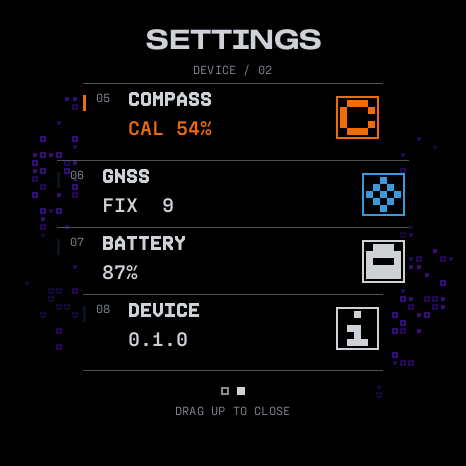
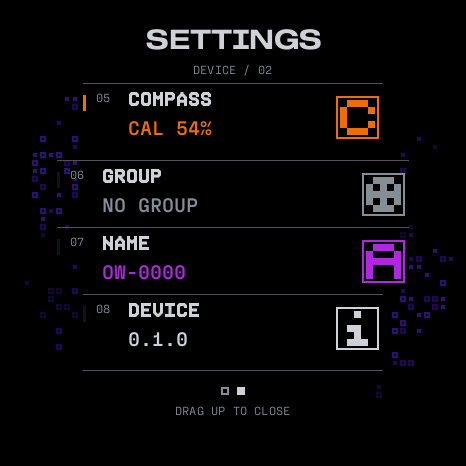
docs: describe the group and pairing screens as built

diff --git a/context/SCREEN-DESIGN-BRIEF.md b/context/SCREEN-DESIGN-BRIEF.md
@@ -33,6 +33,9 @@ what data and settings exist. Read it with:
 - [`design/specs/DISPLAY-AND-MOTION-SPEC.md`](design/specs/DISPLAY-AND-MOTION-SPEC.md):
   round 3, the compass's changes of state, the start-up, screen timeout with the always-on
   face, pixel shift and two panel cells.
+- [`design/handoffs/octowhere-pairing-handoff-2026-10-02/`](design/handoffs/octowhere-pairing-handoff-2026-10-02/IMPLEMENTATION-HANDOFF.md):
+  the group, name and pairing screens, built. "Group and pairing as built" records where the
+  build interpreted it.
 
 Everything those specs describe is implemented and has been approved on the panel. The
 2026-09-26 hand-off changes how they look; their behaviour stands where the
@@ -46,7 +49,8 @@ later decisions are in this brief's "as built" sections.
 The last round was pairing and the group, the screens for step 3 of the location mesh. Its brief
 is `design/handoffs/PAIRING-ROUND-BRIEF-2026-10-02.md`, and the owner approved its hand-off,
 `design/handoffs/octowhere-pairing-handoff-2026-10-02/` (`design/DECISIONS.md` entry 27). The
-radio side is built; the screens are not.
+radio side and the screens are built, and "Group and pairing as built" says where the build
+interpreted the hand-off.
 
 Round 3 answered the owner's last three questions: smoother changes between the compass's
 states, pixel shift against burn-in, and a screen timeout with dimming. Its spec is built,
@@ -126,11 +130,12 @@ the panel. Touch targets are no smaller than about 10 mm.
   panel's COMPASS cell.
 - **Settings panel:** S1's eight indexed rows on two pages, four rows per page. A horizontal
   drag switches the whole page. Page 1 is ZONE, BRIGHTNESS, TIMEOUT, ALWAYS ON; page 2 is
-  COMPASS, GNSS, BATTERY, DEVICE. ZONE opens the picker, BRIGHTNESS the editor and TIMEOUT the
+  COMPASS, GROUP, NAME, DEVICE. ZONE opens the picker, BRIGHTNESS the editor and TIMEOUT the
   timeout screen. ALWAYS ON opens a screen on the timeout screen's stepper, with OFF, DIM and
   each level from 5 % to 50 %, a choice every 20 px of drag counted from where the drag starts;
-  the cell reads `OFF`, or `ON` with `DIM` or the level. COMPASS restarts calibration and closes to the compass. GNSS, BATTERY
-  and DEVICE open the device page, which ends with the attribution, `CLEAR SETTINGS` and
+  the cell reads `OFF`, or `ON` with `DIM` or the level. COMPASS restarts calibration and closes to the compass. GROUP opens
+  the group screen and NAME the keyboard ("Group and pairing as built").
+  DEVICE opens the device page, which ends with the attribution, `CLEAR SETTINGS` and
   `REPLAY START-UP`, which opens a chooser: the identity and logo card again, or a marked
   demonstration of one part failing. The inner screens use D3's violet active fields and
   orange failure demonstration; CLEAR keeps its orange two-stage drag.
@@ -268,6 +273,69 @@ its orange drag. The routes, saves, cancel and cover behavior are unchanged. Hos
 settings scene from `ui-sim`. On-target draw times are in
 `docs/logs/display/settings-draw-2026-09-26.md`. Legibility and touch have not yet been checked
 on the physical panel.
+
+## Group and pairing as built
+
+The screens are `crates/octowhere-ui/src/ui/group/`. GROUP and NAME replace GNSS and BATTERY
+on the panel's second page: GROUP shows `NN MEMBERS` in white or `NO GROUP` in gray, and NAME
+the name in violet with the NAME glyph. The rows keep the panel's own geometry, whose middle
+rows are wider than the hand-off's concept of the page. Each group screen builds a list of what
+it draws each step, and a step damages only the items that differ, so a countdown repaints its
+digits and a scroll its rows. The scatter is the panel's. The firmware publishes what the
+screens show (`group::view`): this device's name and address, the stored group's members, when
+each was last heard directly and when its position was observed, the radio's state at boot,
+and the pairing under way. The screens ask the mesh through `Request`, and `group::sim` stands
+in for the mesh on the host. Where the build interpreted the hand-off:
+
+- **No names before the code.** Announcements carry only keys and addresses (owner), so a
+  device found shows its 12-digit address and NAME NOT SENT YET, and the code screens name the
+  other device by its address. The adding device learns the joining device's name with its
+  confirmation, and the joining device learns the adding device's with the group.
+- **Phases.** Exchanging keys over the air takes up to 30 s and shows PREPARING. The adding
+  device stores the member when the last part is acknowledged, so its phase after the transfer
+  is STORING / WRITING MEMBER, where the render has WAITING / FINAL REPLY PENDING. The joining
+  device shows STORING / WRITING MEMBERSHIP, then WAITING / FINAL REPLY PENDING until the last
+  word comes.
+- **Commit order**, which the hand-off asked for. The joining device stores the group, then
+  acknowledges the last part; the adding device stores the member on that acknowledgement,
+  then says so. If that acknowledgement is lost, the adding device has not stored the member
+  and shows CHECK MEMBER; the member reaches its table later through member records. The
+  joining device shows GROUP STORED / PEER RECEIPT NOT CONFIRMED. A device founding a group
+  stores no group in that case, while the joining device has one.
+- **CANCEL** sends the cancel and stays to show what the mesh reports, normally CANCELLED,
+  rather than going straight back to the group: the mesh may already be storing. While it
+  stores, the top button is left out, since the mesh can no longer cancel.
+- **Not shown.** The joining device cannot tell that it was returning, so the joining side
+  never shows RESTORED. It shows the GROUP OF TWO form of JOINED whenever the group it joined
+  has two members. JOIN never shows GROUP FULL: the protocol has no capacity rejection for the
+  joining device.
+- **Outcomes without a render.** A failed key check (KEY CHECK FAILED) and an unusable group
+  (TRANSFER FAILED) are red. Contact lost before the transfer says KEY EXCHANGE DID NOT FINISH.
+  The other device's reported mismatch shows PEER DECLINED, as the paired render has it; its
+  timeout shows TIME EXPIRED and its failed store SAVE FAILED. The mesh's refusals show IN A
+  GROUP and UNAVAILABLE (no random source).
+- **NO RADIO** shows when START is tapped without a radio. Leaving first checks the radio
+  before it erases anything.
+- **Keyboard.** SAVE returns to where the keyboard opened once the write lands, and an
+  unchanged name returns without a write; the fixtures' NAME SAVED and ORIGINAL KEPT lines are
+  not shown. While saving the line under the keys says SAVING, a blank name A NAME NEEDS A
+  CHARACTER and a seventeenth character 16/16 / NAME IS FULL. An empty draft shows the caret at
+  the centre. The middle letter row's half-pixel left edges are rounded up, to 58 + 39 n.
+- **Ages.** `08S` under a minute, `05M 20S` under ten, `40M` under an hour, `02H 15M` under a
+  day and `03D` after. DIRECT is blue while the member was heard within seven rounds (315 s).
+  A member added while its adding device had no UTC shows JOINED TIME UNKNOWN.
+- **Members.** The list settles on whole rows after a drag. Its footer counts rows from 1,
+  this device included.
+- **Names in explanations** (MY NAME, GROUP CREATED) are in Fraktion Sans Light, as the
+  renders have them; Sans Light now carries all printable ASCII so that case shows.
+- **Timeout.** A pairing holds the screen awake from START to its end. A cover and either
+  power key press cancel it first.
+
+Host stills of every state are in the `render` example, named after the hand-off's renders
+where they match, and the atlas's GROUP + NAME and PAIRING sections. The boards' own
+framebuffers through a pairing, a rename and a cover are in
+`docs/logs/lora/pairing-screens-2026-10-02/`. A finger on the 39 px keys and legibility on the
+panel have not been checked by a person.
 
 ## The compass's states and changes, as built
 
@@ -604,12 +672,17 @@ plumbing it is firmware work. There are three grades.
    - GNSS: fix, satellites in use and in view, and the last fix's position.
    - The display brightness, and the firmware version (`0.1.0`, the crate's version string).
    - Touch contacts and the cover report.
+   - From the mesh: this device's name and hardware address, and whether the radio answered
+     at boot; the stored group's members with their ids, names, addresses and join times, when
+     each was last heard directly and when its newest position was observed; how the last
+     leave or rename went; and the pairing under way, with its role, phase, deadline, the
+     devices found, the other device's address and its name once sent, the code, and the
+     group's size and this device's id once the pairing holds them.
 2. **Known to the firmware, not passed to the screens:** GNSS time to the millisecond, fix
    quality, and when the clock was last set from GNSS. Also the compass calibration's internals.
-   From the mesh: this device's id, the members it has heard and when, their positions and
-   how old each is, and whether the radio came up at boot.
+   From the mesh: the members' positions themselves, the timebase, and the packets' signal.
 3. **Does not exist:** raise to wake, or any wake but a double tap or the power key (the
-   IMU's wake-on-motion and the BOOT key are unused); a 12-hour clock (ruled out by the clock spec); units, languages, sounds or vibration; pairing, groups, member names,
+   IMU's wake-on-motion and the BOOT key are unused); a 12-hour clock (ruled out by the clock spec); units, languages, sounds or vibration; removing a member,
    Wi-Fi or Bluetooth; alarms, timers, step counting and notifications.
 
 ## Settings
@@ -623,6 +696,8 @@ plumbing it is firmware work. There are three grades.
 | Compass calibration | no. It is learned at run time and restarted from the COMPASS cell | COMPASS |
 | Screen timeout | yes | TIMEOUT, then the timeout screen |
 | Always-on face | yes | ALWAYS ON |
+| This device's name | yes, kept by CLEAR SETTINGS | NAME, then the keyboard |
+| The group: its key, this device's id and the members | yes, kept by CLEAR SETTINGS | GROUP |
 
 - Settings live in an ekv database in flash. Clearing erases all six stored keys. The device
   returns to its defaults: automatic zone, brightness 120, a 1 min timeout, and ALWAYS ON off.

diff --git a/AGENTS.md b/AGENTS.md
@@ -32,7 +32,10 @@ initialization or peripheral mappings.
   open the firmware, `scatter`, the identity's halftone scatter, kept apart for other screens
   to use, `rest`, the screen timeout, the dim and the fades between levels, `shift`, the pixel
   shift's positions against burn-in and the column split the flush shares, `always_on`, the
-  face the screen rests on, `power_off`, the power key's confirmation, `stage`, which holds the screen state and turns touch and readings into redraws and settings to store, and `script`, which steps a stage on a simulated clock for
+  face the screen rests on, `power_off`, the power key's confirmation, `group`, the group,
+  name and pairing screens, drawn from a list of what each shows (`layout`), with the mesh's
+  published state and the requests they make of it in `view`, and a simulated mesh for the
+  host in `sim`, `stage`, which holds the screen state and turns touch and readings into redraws and settings to store, and `script`, which steps a stage on a simulated clock for
   tests and scenes. `src/chrome.rs` is the font and draw-target layer, and `src/framebuffer.rs`
   holds the pixels. The firmware re-exports
   its `chrome`, `framebuffer`, `motion` and `ui` modules. The UI keeps re-exporting the motion
@@ -108,8 +111,7 @@ initialization or peripheral mappings.
   a record. Its partition is historical.
 - [`context/LORA-PROTOCOL.md`](context/LORA-PROTOCOL.md) is the agreed design for the location
   mesh of up to 32 nodes: band and radio settings, gossip digest, GPS-anchored TDMA, packet
-  layout, messages, crypto and pairing. Steps 1 and 2 of its build order are implemented, and
-  step 3 but for its screens.
+  layout, messages, crypto and pairing. Steps 1 to 3 of its build order are implemented.
 - [`context/palette-reference.md`](context/palette-reference.md) records the colour values from the
   reference board and the role each one plays in `chrome.rs`.
 
@@ -208,7 +210,7 @@ Weigh that cost before adding one.
 
 Measure the flash image with `espflash save-image`, not the section totals. `xtensa-esp-elf-size`
 counts bytes that alignment padding absorbs, and the two disagree by a wide margin on this target.
-The image is currently 1,400,960 bytes, 8.94% of the 15,663,104-byte app partition that
+The image is currently 1,468,944 bytes, 9.38% of the 15,663,104-byte app partition that
 `partitions.csv` gives it. Measure with `espflash save-image --chip esp32s3 --flash-size 16mb
 --partition-table partitions.csv <elf> <out>`; without those two options it assumes 4 MB of flash
 and the default table. The time zone
@@ -364,7 +366,10 @@ Core 1 owns the display SPI/DMA path.
   runs the link test when a `lora-link-*` feature is on, and otherwise the mesh (`src/mesh.rs`),
   which takes the latest fix from `mesh::FIX`, set by `gnss_task`, the RTC's time from
   `mesh::RTC_TIME`, set by `sensor_task`, and GPS time from `GPS_TIME`. It is spawned only when
-  the radio answered at boot.
+  the radio answered at boot; otherwise `mesh::offline`, in thread mode, keeps the name and can
+  leave the group, and tells the screens there is no radio. Either publishes what the screens
+  show of the mesh, which the frame loop takes on `mesh::VIEW_CHANGED`, and the frame loop
+  passes the stage's requests to `mesh::COMMANDS`.
 - `zone_task`, in thread mode, looks the zone up again whenever a fix moves about a kilometre
   in automatic mode, a zone at a time with a yield between, takes the settings panel's choice
   from `ZONE_CHOICE`, publishes the zone through `ZONE_STATE`, and queues a new zone for
@@ -423,7 +428,8 @@ poisons the thread and a later `get()` panics.
 - Damage is `chrome::Dirty`, spans of columns per pair of rows at the panel's 2 × 2 write grain
   (`ui/dirty.rs`). `Stage::changed` holds what a step changed: on a settled face, the old and
   new places of each part that changed; on the settled panel, the cells that changed or the
-  scrolling grid; elsewhere, the whole panel.
+  scrolling grid; on a group screen, the items of its list that differ from the last step's;
+  elsewhere, the whole panel.
 - Each framebuffer repaints the previous step's damage and its own, since it last held the frame
   before that, drawing through `chrome::Clip`. The flush sends only the step's own damage, since
   the panel already shows the step before. A buffer not yet drawn is drawn in full. The spans are
@@ -492,8 +498,9 @@ asleep. Without a fix a node has no position of its own. Commands reach the mesh
 `mesh::COMMANDS`: start a pairing to add or join, choose a device found, answer the code, cancel,
 leave the group, rename. A pairing takes the radio to band O's upper channel at +2 dBm until it
 ends; the protocol's "The exchange as built" has the frames and their order, and
-`docs/logs/lora/pairing-2026-10-02/` the first pairings between the two boards. No screen sends
-the commands yet, so `pair-inject` lets `tools/pair-inject.py` send them over the USB JTAG. The
+`docs/logs/lora/pairing-2026-10-02/` the first pairings between the two boards. The group
+screens send the commands, and `pair-inject` lets `tools/pair-inject.py` send them over the USB
+JTAG too; `docs/logs/lora/pairing-screens-2026-10-02/` has a pairing through the screens. The
 mesh asks `settings_task` to store the group through `GROUP_WRITES` and waits for
 `GROUP_SAVED` where a pairing's commit depends on it. Keys and nonces come from the hardware's
 true random source, which `async_main` enables with the ADC's noise and leaves on. A board whose `DIO0` rises with no flag raised has its
@@ -553,8 +560,11 @@ All default off. None belongs in normal firmware behavior.
 - `rtc-inject` lets `tools/rtc-inject.py` set the RTC over the USB JTAG with probe-rs, either as
   though GNSS set it or as the RTC's own unconfirmed time, without a reset. After one, GNSS no
   longer sets the clock until the firmware restarts.
-- `pair-inject` lets `tools/pair-inject.py` give the mesh its commands over the USB JTAG, in
-  place of the screens: add, join, choose, accept, decline, mismatch, cancel, leave and rename.
+- `pair-inject` lets `tools/pair-inject.py` give the mesh its commands over the USB JTAG,
+  beside the screens: add, join, choose, accept, decline, mismatch, cancel, leave and rename.
+- `touch-inject` lets `tools/touch-inject.py` tap, swipe and cover the screen and press the
+  power key over the USB JTAG, and read the framebuffer drawn last back to a PNG, for driving
+  the screens on a board nobody holds. A read takes about 11 s and interrupts the board.
 - `lora-link-tx` and `lora-link-rx` build the two ends of a link test. They are mutually exclusive
   and `main.rs` refuses both with a `compile_error!`.
 - `fontdue-target-bench` diverts `async_main` into the on-target font benchmark, which never
@@ -568,8 +578,9 @@ The active UI uses the compile-time fontdue renderer in
 and PPFraktion font data under `assets/`. KH Interference Bold sets the large readings, the clock's
 label, the compass caption and the settings' row names and selected values; its asset is a trial,
 and a release needs a licensed one. KH Interference Regular sets the identity's subtitle. Fraktion
-Sans Light sets the clock's band lines, the offset picker's lower neighbour and the always-on face's
-battery value. Maratype sets the identity's title and nothing else: the owner rejected it on every
+Sans Light sets the clock's band lines, the offset picker's lower neighbour, the always-on face's
+battery value and the group screens' explanations. Fraktion Mono Regular sets names, addresses
+and the name keyboard, so that a name keeps its case. Maratype sets the identity's title and nothing else: the owner rejected it on every
 other screen. `embedded-layout` supplies the current text alignment helpers.
 
 Every font is built from its full font file, and the macro's `chars:` list picks the glyphs it

diff --git a/context/BACKLOG.md b/context/BACKLOG.md
@@ -77,30 +77,28 @@ until the feature set is complete, because profiling an incomplete firmware pric
   line as proper settings, reading the current scan line (45h), partial and scroll areas, idle
   mode, deep standby, and high-brightness and contrast controls.
 - Build the protocol in [`LORA-PROTOCOL.md`](LORA-PROTOCOL.md), in its "Build order". Steps 1
-  and 2 are done, and step 3's radio side: pairing, the member table and its storage, paired
-  between the two boards (`docs/logs/lora/pairing-2026-10-02/`). Step 3's screens are next.
-- Build step 3's screens from the pairing hand-off,
-  `design/handoffs/octowhere-pairing-handoff-2026-10-02/` (local, not in git; `design/DECISIONS.md`
-  entry 27). Its `IMPLEMENTATION-HANDOFF.md` gives the order, starting with the local group and
-  name data and the page paths, and `specs/STATE-MAP.md` maps every state to its render under
-  `renders/`. What the backend has and what it lacks:
-  - Commands go in through `mesh::COMMANDS` (add, join, choose, accept, decline, mismatch,
-    cancel, leave, rename). Join is refused in a group, so the screens' leave-first flow sends
-    leave, waits for it, then join. A cover and the power key send cancel.
-  - Nothing comes out yet. The screens need a published snapshot: the pairing's role, `Phase`,
-    deadline, candidates' MACs, the peer's MAC, the code, whether the peer has confirmed, and
-    parts done of total; and the group's members with id, name, MAC and join time, this
-    device's id, name and MAC, whether the radio answered at boot, and each member's last direct
-    packet (`Table::heard` keeps rounds) and position age. The hand-off's runtime data contract
-    lists the rest.
-  - `octowhere-ui` has no board dependency. `octowhere-mesh` has none either, so the UI can take
-    its types (`Phase`, `End`, `Done`, `Name`) directly.
-  - The outcomes map onto the hand-off's states: `End::Unconfirmed` is ADD's confirmation-lost,
-    `Done::Joined { confirmed: false }` JOIN's; `End::Full` is ADD blocked before discovery.
-    Code derivation takes 22 ms, so PREPARING never needs to show.
-  - The keyboard's rules are the UI's: reject an all-space name and trim trailing spaces before
-    sending rename.
-  - The screen timeout holds during a pairing (hand-off default).
+  to 3 are done: pairing, the member table, its storage and the screens, paired between the two
+  boards by the mesh's commands and through the screens (`docs/logs/lora/pairing-2026-10-02/`,
+  `docs/logs/lora/pairing-screens-2026-10-02/`). Step 4 is next.
+- Finish what step 3's screens leave open (`SCREEN-DESIGN-BRIEF.md`, "Group and pairing as
+  built"):
+  - A person's finger on the name keyboard's 39 × 53 px keys, and every group screen's
+    legibility on the panel. The screens were driven on the boards only by `touch-inject`.
+  - The joining device cannot tell it was returning, so its RESTORED screen never shows. The
+    group it receives would need to say so.
+  - A device founding a group whose last acknowledgement is lost stores no group, while the
+    joining device stores one with the founder in it. The founder's CHECK MEMBER is true, but
+    nothing reconciles the two.
+  - Reading a screen back with `touch-inject` takes about 11 s and interrupts the board. The
+    USB JTAG reads PSRAM at about 40 KB/s on a running core (64 KB took 1.7 s). Halting the
+    core for the whole read (owner's suggestion) was not measured: `probe-rs debug` needs a
+    terminal. If the link is the limit, the lever is sending less: run-length coded at four
+    bytes a run, four of the boards' frames came to 32 to 64 KB, about 1 to 1.6 s at that
+    rate. An RTT channel (owner's
+    suggestion) could carry that frame up, and carry every injected input down in place of
+    the per-feature statics of `rtc-inject`, `pair-inject` and `touch-inject`. RTT goes over
+    the same JTAG memory reads, so it does not speed a read by itself. Whether probe-rs runs
+    RTT on this chip is not checked.
 
 - Make the partial flush cheaper. With the compass redrawing only what changed, a one-degree turn
   flushes about 28,000 pixels in about 42 regions and takes about 10 ms, against 14.8 ms for the

diff --git a/context/LORA-PROTOCOL.md b/context/LORA-PROTOCOL.md
@@ -2,9 +2,8 @@
 
 The product is a closed group of up to 32 equivalent nodes that share positions and carry messages
 between members, including private ones. GPS supplies both position and the time reference; LoRa
-carries the traffic. This document is the agreed design. Steps 1 and 2 of the build order below
-are implemented, and step 3 is but for its screens; [`AGENTS.md`](../AGENTS.md), "Radio", says
-how.
+carries the traffic. This document is the agreed design. Steps 1 to 3 of the build order below
+are implemented; [`AGENTS.md`](../AGENTS.md), "Radio", says how.
 
 The first version of this design (commit `e57fe0a`) was eight nodes and positions only. The owner
 extended it on 2026-09-29 to 32 nodes, messages and private messages, moved it to band O, and kept
@@ -561,8 +560,9 @@ and the restore after are each short with the bus free between them.
 2. Radio settings above, and slots on GPS time with the header and record format, carrying
    positions and neighbours, with a timebase taken from other nodes without a fix. Done, with ids
    from the MAC and a development key until step 3.
-3. Pairing, the member table and ids. The exchange, the member table, member records in the mesh's
-   packets and their storage are built; the screens are not.
+3. Pairing, the member table and ids. Done: the exchange, the member table, member records in
+   the mesh's packets, their storage, and the screens (`SCREEN-DESIGN-BRIEF.md`, "Group and
+   pairing as built").
 4. The cancel rule and neighbour-only listening.
 5. CAD with slot phase refined from arrival times.
 6. Messages, then private messages.

diff --git a/context/WORKING-NOTES.md b/context/WORKING-NOTES.md
@@ -53,6 +53,11 @@ look is in [`design/`](design/README.md).
   affected.
 - Opening the serial port resets the chip, even with DTR and RTS held low. To inspect a hang,
   halt it with `probe-rs` over the USB JTAG first (`probe-rs list` shows "ESP JTAG").
+- Driving the screens with `touch-inject`: a resting screen takes no contacts, so wake it with
+  `short` first, and set TIMEOUT to NEVER for a long session. The panel opens on the page it
+  was last left on, so check the page before tapping a row. A `shot` takes about 11 s and
+  interrupts the board: during one, the other board dropped it from its devices found. Keep
+  shots out of a pairing's search, and take at most a couple in the code's 60 s.
 - The PMIC's I2C init fails about one boot in three right after flashing. Retry before
   suspecting a change.
 - `pkill -f` with a pattern that matches its own command line kills the calling shell.
